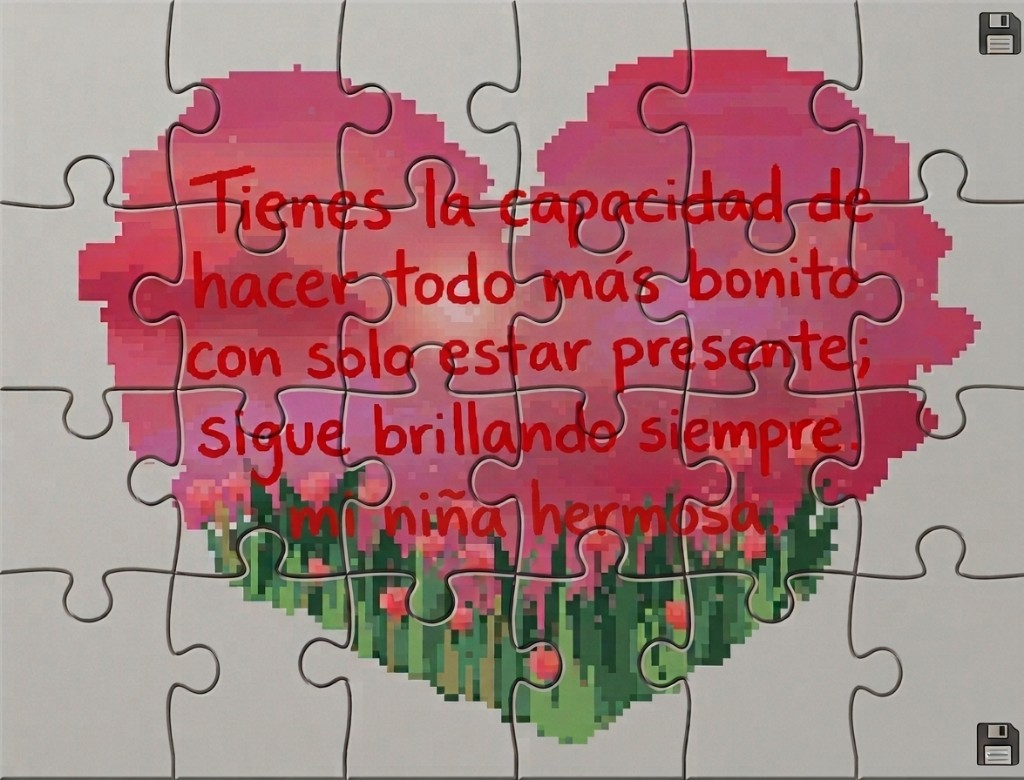
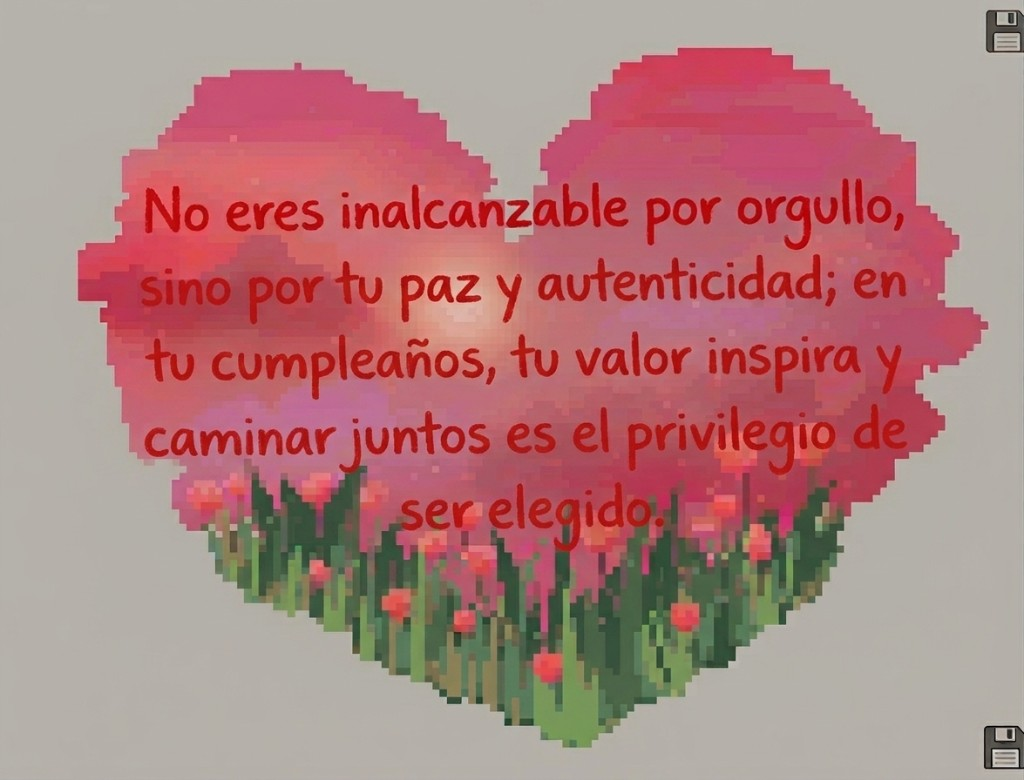
Swap the puzzle art for the new heart, bring in Chococat, and document deployment.
Recut the 24 jigsaw pieces from the replacement image, retire Kuromi in favour of Chococat for the future letter, warm the near-black copy to plum, celebrate with Yupiii, and write step-by-step deploy instructions.

diff --git a/src/index.css b/src/index.css
@@ -5,8 +5,8 @@
   --rose-300: #e8a8bc;
   --rose-400: #d47a96;
   --rose-500: #c45a72;
-  --ink: #2a2226;
-  --ink-soft: #5a4a52;
+  --ink: #6b2647;
+  --ink-soft: #8f5f75;
   --blue: #8a9bb8;
   --blue-deep: #5f738f;
   --red-dot: #e23d4a;
@@ -634,7 +634,7 @@ p {
   font-family: var(--font-display);
   font-size: 1.08rem;
   line-height: 1.65;
-  color: #4a2f2c;
+  color: #5b3049;
 }
 
 .letter-close.soft {
@@ -919,16 +919,34 @@ p {
 
 .puzzle-done {
   position: absolute;
-  inset: auto 8% 8%;
+  left: 50%;
+  bottom: -1.15rem;
+  transform: translateX(-50%);
   z-index: 5;
-  font-family: var(--font-display);
-  font-style: italic;
-  font-size: 1.35rem;
-  color: #7a3144;
-  background: rgba(255, 250, 248, 0.88);
+  margin: 0;
+  font-family: var(--font-puffy);
+  font-size: 1.25rem;
+  letter-spacing: 0.02em;
+  white-space: nowrap;
+  color: #c45a72;
+  background: #fffaf8;
+  border: 2px solid #f4c9d6;
   border-radius: 999px;
-  padding: 0.35rem 0.9rem;
+  padding: 0.3rem 1.1rem;
+  box-shadow: 0 8px 18px rgba(154, 61, 77, 0.18);
   pointer-events: none;
+  animation: yupi-pop 0.5s cubic-bezier(0.34, 1.56, 0.64, 1) both;
+}
+
+@keyframes yupi-pop {
+  from {
+    opacity: 0;
+    transform: translateX(-50%) scale(0.6);
+  }
+  to {
+    opacity: 1;
+    transform: translateX(-50%) scale(1);
+  }
 }
 
 .puzzle-tray {

diff --git a/src/components/PuzzleGame.tsx b/src/components/PuzzleGame.tsx
@@ -156,7 +156,7 @@ export function PuzzleGame() {
         style={{ aspectRatio: `${puzzle.boardWidth} / ${puzzle.boardHeight}` }}
       >
         {pieces.map((p) => renderPiece(p.id, 'board'))}
-        {done && <p className="puzzle-done">Lo armaste, mi niña.</p>}
+        {done && <p className="puzzle-done">Yupiii</p>}
       </div>
 
       <div className="puzzle-tray">

diff --git a/src/data/content.ts b/src/data/content.ts
@@ -123,9 +123,9 @@ export const characters: CharacterGift[] = [
     letterId: 'birthday',
   },
   {
-    id: 'kuromi',
-    name: 'Kuromi',
-    src: '/images/characters/kuromi-party.png',
+    id: 'chococat',
+    name: 'Chococat',
+    src: '/images/characters/chococat-party.png',
     giftLabel: 'Para nuestro futuro',
     kind: 'letter',
     letterId: 'future',

diff --git a/README.md b/README.md
@@ -1,30 +1,303 @@
 # Para Marjorie · 16 de septiembre
 
-Página-regalo de cumpleaños (23 años).
+Página-regalo de cumpleaños (23 años), hecha con **Vite + React + TypeScript**.
 
-## Desarrollo
+Repositorio: <https://github.com/rgodinez-2024247/May-16-sep-Proyect>
 
-```bash
+La experiencia es: pantalla de entrada con el botón "No" que se escapa → al dar "Sí" empieza la
+música en orden aleatorio → tres personajes que abren una carta cada uno → un rompecabezas que se
+arma arrastrando piezas → mensaje de cierre.
+
+---
+
+## 1. Requisitos
+
+| Herramienta | Versión mínima | Cómo comprobar |
+|---|---|---|
+| Node.js | 20.19+ o 22+ | `node --version` |
+| npm | 10+ | `npm --version` |
+| Git | cualquiera reciente | `git --version` |
+
+Si no tienes Node, descárgalo de <https://nodejs.org> (elige la versión **LTS**).
+
+---
+
+## 2. Instalación
+
+Abre PowerShell en la carpeta del proyecto y ejecuta:
+
+```powershell
 npm install
+```
+
+Esto descarga las dependencias en `node_modules/` (esa carpeta **no** se sube a Git).
+
+Si empiezas desde cero en otra computadora:
+
+```powershell
+git clone https://github.com/rgodinez-2024247/May-16-sep-Proyect.git
+cd May-16-sep-Proyect
+npm install
+```
+
+---
+
+## 3. Correr en local (modo desarrollo)
+
+```powershell
 npm run dev
 ```
 
-## Música
+Verás algo así:
 
-Coloca los archivos en `public/music/` con estos nombres:
+```
+VITE v8.2.1  ready in 1006 ms
+➜  Local:   http://localhost:5173/
+```
+
+Abre esa dirección en el navegador. Los cambios que guardes en el código se reflejan al instante.
+
+- Si el puerto 5173 está ocupado, Vite usa el siguiente (5174, 5175...). **Fíjate en la dirección
+  que imprime la terminal**, no asumas 5173.
+- Para forzar un puerto: `npm run dev -- --port 5173 --strictPort`
+- Para detenerlo: `Ctrl + C` en esa terminal.
+- Para verlo desde el celular en la misma red WiFi: `npm run dev -- --host` y abre en el celular la
+  dirección "Network" que aparece.
+
+---
+
+## 4. La música
+
+Los MP3 viven en `public/music/` y **ya están en el repositorio**. Los nombres tienen que ser
+exactamente estos, porque están escritos en `src/data/content.ts`:
 
 - `loco.mp3`
 - `really.mp3`
 - `falling-in-love.mp3`
 - `guns-for-hands.mp3`
 - `fade-into-you.mp3`
-- `casio.mp3`
+- `jungle.mp3`
 - `made-in-japan.mp3`
 - `ella-viene-del-futuro.mp3`
 
-## Build
+Al entrar, la lista se reproduce en **orden aleatorio**. Si un archivo falta, el reproductor
+muestra un aviso en vez de romperse.
 
-```bash
+Para cambiar, quitar o agregar canciones, edita el arreglo `songs` al final de
+`src/data/content.ts` y pon el MP3 con ese nombre en `public/music/`.
+
+---
+
+## 5. Compilar para producción
+
+```powershell
 npm run build
+```
+
+Genera la carpeta `dist/`, que es el sitio ya listo (HTML, CSS, JS, imágenes y música).
+Para revisarlo tal como quedará publicado:
+
+```powershell
 npm run preview
+```
+
+Otros comandos:
+
+```powershell
+npm run lint     # revisa el código con oxlint
+npx tsc -b       # solo revisa los tipos de TypeScript
+```
+
+---
+
+## 6. Desplegar (publicar en internet)
+
+> **Lo más importante que debes saber:** el código pide las imágenes y la música con rutas
+> absolutas (`/images/...`, `/music/...`). Eso funciona perfecto si el sitio vive en la **raíz** de
+> un dominio (por ejemplo `https://algo.vercel.app/`), pero **se rompe si vive en una subcarpeta**
+> (como `https://usuario.github.io/May-16-sep-Proyect/`). Por eso te recomiendo Vercel o Netlify.
+> Más abajo explico el caso de GitHub Pages.
+
+### Opción A · Vercel (recomendada, gratis)
+
+1. Sube tus cambios a GitHub:
+
+   ```powershell
+   git add .
+   git commit -m "Ajustes finales"
+   git push origin main
+   ```
+
+2. Entra a <https://vercel.com> y crea una cuenta con **Continue with GitHub**.
+3. Haz clic en **Add New… → Project**.
+4. Busca el repositorio `May-16-sep-Proyect` y presiona **Import**.
+5. Vercel detecta Vite solo. Verifica que diga:
+   - Framework Preset: **Vite**
+   - Build Command: `npm run build`
+   - Output Directory: `dist`
+6. Presiona **Deploy** y espera ~1 minuto.
+7. Te da una URL tipo `https://may-16-sep-proyect.vercel.app`. Esa es la que le mandas a ella.
+
+Desde ese momento, cada `git push origin main` vuelve a publicar automáticamente.
+
+Si prefieres hacerlo por terminal:
+
+```powershell
+npm install -g vercel
+vercel login
+vercel --prod
+```
+
+### Opción B · Netlify sin Git (lo más rápido de todo)
+
+1. `npm run build`
+2. Entra a <https://app.netlify.com/drop>
+3. Arrastra la carpeta **`dist`** completa a esa página.
+4. Listo, te da una URL al instante.
+
+Para actualizarla después: vuelve a correr `npm run build` y arrastra `dist` otra vez.
+
+### Opción C · GitHub Pages (requiere un cambio de código)
+
+GitHub Pages publica los proyectos en una subcarpeta
+(`https://rgodinez-2024247.github.io/May-16-sep-Proyect/`). Como el código usa rutas absolutas,
+**las imágenes y la música darían error 404** si lo publicas así sin más.
+
+Para que funcione hay que hacer dos cosas:
+
+1. Decirle a Vite en qué subcarpeta vive. En `vite.config.ts`:
+
+   ```ts
+   export default defineConfig({
+     plugins: [react()],
+     base: '/May-16-sep-Proyect/',
+   })
+   ```
+
+2. Cambiar las ~46 rutas absolutas del código para que respeten esa base, usando
+   `import.meta.env.BASE_URL`. Están en `src/data/content.ts`, `src/data/puzzle.ts`,
+   `src/App.tsx`, `src/components/Entrance.tsx` y `src/components/LetterRoses.tsx`.
+
+Si de plano quieres GitHub Pages, pídemelo y hago ese cambio. Mientras no se haga, usa Vercel o
+Netlify, donde el proyecto funciona tal como está.
+
+---
+
+## 7. Estructura del proyecto
+
+```
+May-16-sep-Proyect/
+├── index.html                    punto de entrada y fuentes de Google
+├── vite.config.ts                configuración de Vite
+├── package.json                  dependencias y comandos
+├── public/                       archivos que se copian tal cual al sitio
+│   ├── images/
+│   │   ├── bg-crumpled-pink.png        fondo de papel arrugado
+│   │   ├── hero-cat.png                el gatito de arriba (sin fondo)
+│   │   ├── white-roses.png             rosas de las cartas
+│   │   ├── puzzle-heart.png            imagen original del rompecabezas
+│   │   ├── puzzle-pieces/p0..p23.png   las 24 piezas ya cortadas
+│   │   └── characters/                 Cinnamoroll, Hello Kitty, Chococat
+│   └── music/                    los 8 MP3
+├── scripts/                      utilidades que se corren a mano (no son parte del sitio)
+└── src/
+    ├── App.tsx                   arma la página completa
+    ├── index.css                 TODOS los estilos
+    ├── data/
+    │   ├── content.ts            cartas, personajes, canciones, pinturas, gatos
+    │   └── puzzle.ts             posición y tamaño de cada pieza (generado)
+    └── components/
+        ├── Entrance.tsx          pantalla de entrada y el botón "No" que huye
+        ├── CharacterGifts.tsx    los personajes y el modal de la carta
+        ├── LetterRoses.tsx       las rosas de arriba y abajo
+        ├── PuzzleGame.tsx        el rompecabezas arrastrable
+        ├── MusicPlayer.tsx       el reproductor
+        └── Background.tsx        el fondo
+```
+
+---
+
+## 8. Cómo editar el contenido
+
+Casi todo el texto está en un solo archivo: **`src/data/content.ts`**.
+
+| Qué quieres cambiar | Dónde |
+|---|---|
+| El texto de las tres cartas | `letters` en `src/data/content.ts` |
+| Qué personaje abre qué carta | `characters` en `src/data/content.ts` |
+| La lista de canciones | `songs` en `src/data/content.ts` |
+| "Feliz cumpleaños / mi niña" | `src/App.tsx` |
+| "Te quiero mi niña. Felices 23 May." | `src/App.tsx` |
+| "Hola, Baby… esto es solo para ti." | `src/App.tsx` |
+| La pregunta y los botones Sí/No | `src/components/Entrance.tsx` |
+| El "Yupiii" al terminar el rompecabezas | `src/components/PuzzleGame.tsx` |
+| Colores y tipografías | variables `:root` al inicio de `src/index.css` |
+
+Los colores principales están arriba de `src/index.css`:
+
+```css
+--rose-500: #c45a72;   /* rosa fuerte de los títulos */
+--ink: #6b2647;        /* ciruela de los textos */
+--ink-soft: #8f5f75;   /* ciruela suave de los subtítulos */
+```
+
+**Nota:** en `content.ts` siguen existiendo `paintings` (las pinturas) y `cats` (Arcadio, Oso y
+Fuhrer). Están completos pero a propósito ningún personaje los abre, así que no se ven en la
+página. Si algún día los quieres de vuelta, hay que agregar un personaje que los muestre.
+
+---
+
+## 9. Regenerar imágenes (solo si cambias las originales)
+
+En `scripts/` hay utilidades que se corren **a mano** y solo cuando quieres reemplazar una imagen.
+No hacen falta para desplegar.
+
+```powershell
+# Corta public/images/puzzle-heart.png en las 24 piezas y regenera src/data/puzzle.ts
+node scripts/cut-cat-and-puzzle.cjs
+
+# Quita el fondo de los tres personajes
+node scripts/rembg-party.cjs
+
+# Quita el fondo de Chococat
+node scripts/rembg-chococat.cjs
+```
+
+**Para cambiar la imagen del rompecabezas:** reemplaza `public/images/puzzle-heart.png` por la
+nueva (mismo nombre) y corre `node scripts/cut-cat-and-puzzle.cjs`. El script vuelve a cortar las
+24 piezas con forma de ficha y actualiza `src/data/puzzle.ts`.
+
+---
+
+## 10. Problemas comunes
+
+**"No se ve nada / pantalla en blanco"**
+Revisa la terminal donde corre `npm run dev`; ahí aparecen los errores. También abre la consola del
+navegador con `F12`.
+
+**"Abrí localhost:5173 y no carga"**
+Puede que Vite haya usado otro puerto porque el 5173 estaba ocupado. Mira la dirección exacta que
+imprimió la terminal.
+
+**"La música no suena"**
+Los navegadores no permiten reproducir audio sin una interacción del usuario. La música arranca
+después de dar clic en **"Sí"**; si nada suena, usa el botón ▶ del reproductor.
+
+**"Las imágenes no cargan después de publicar"**
+Es el tema de la sección 6: el sitio debe vivir en la raíz del dominio. Usa Vercel o Netlify.
+
+**"npm install falla"**
+Borra y reinstala:
+
+```powershell
+Remove-Item -Recurse -Force node_modules, package-lock.json
+npm install
+```
+
+**"Quiero volver a un estado anterior"**
+
+```powershell
+git log --oneline        # ver los commits
+git checkout <hash>      # ver cómo estaba en ese momento
+git checkout main        # regresar
 ```
